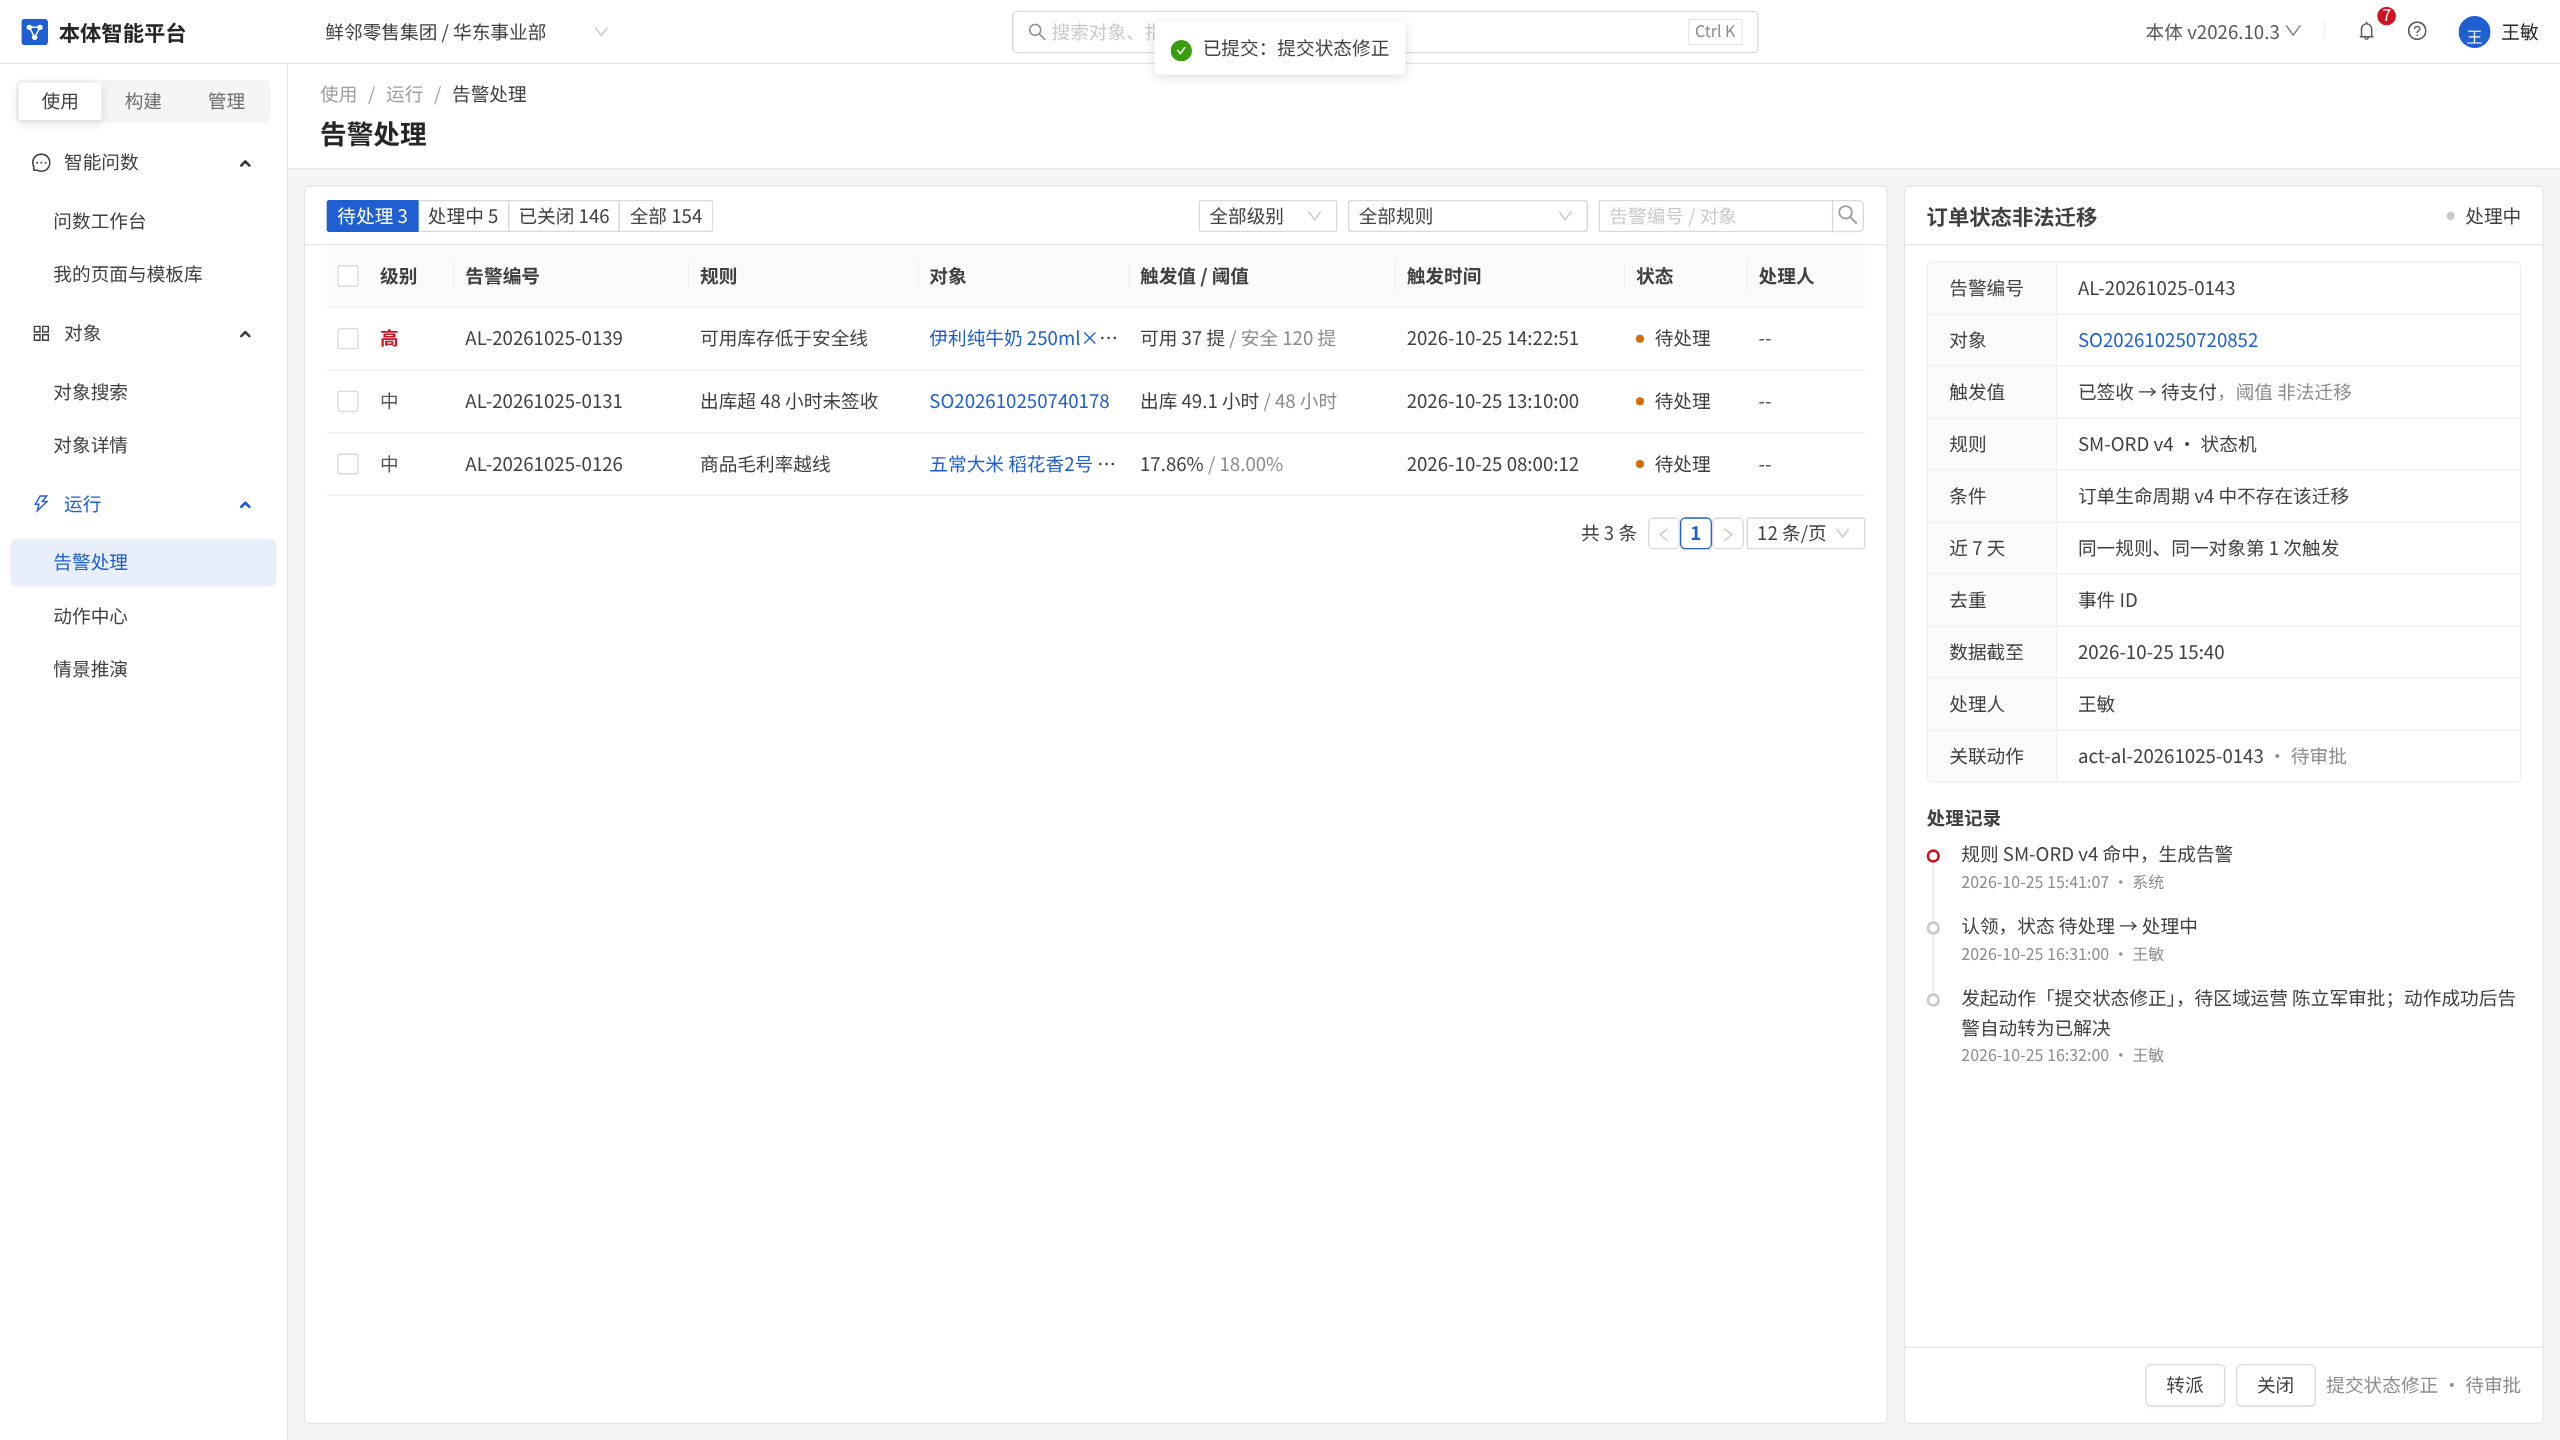
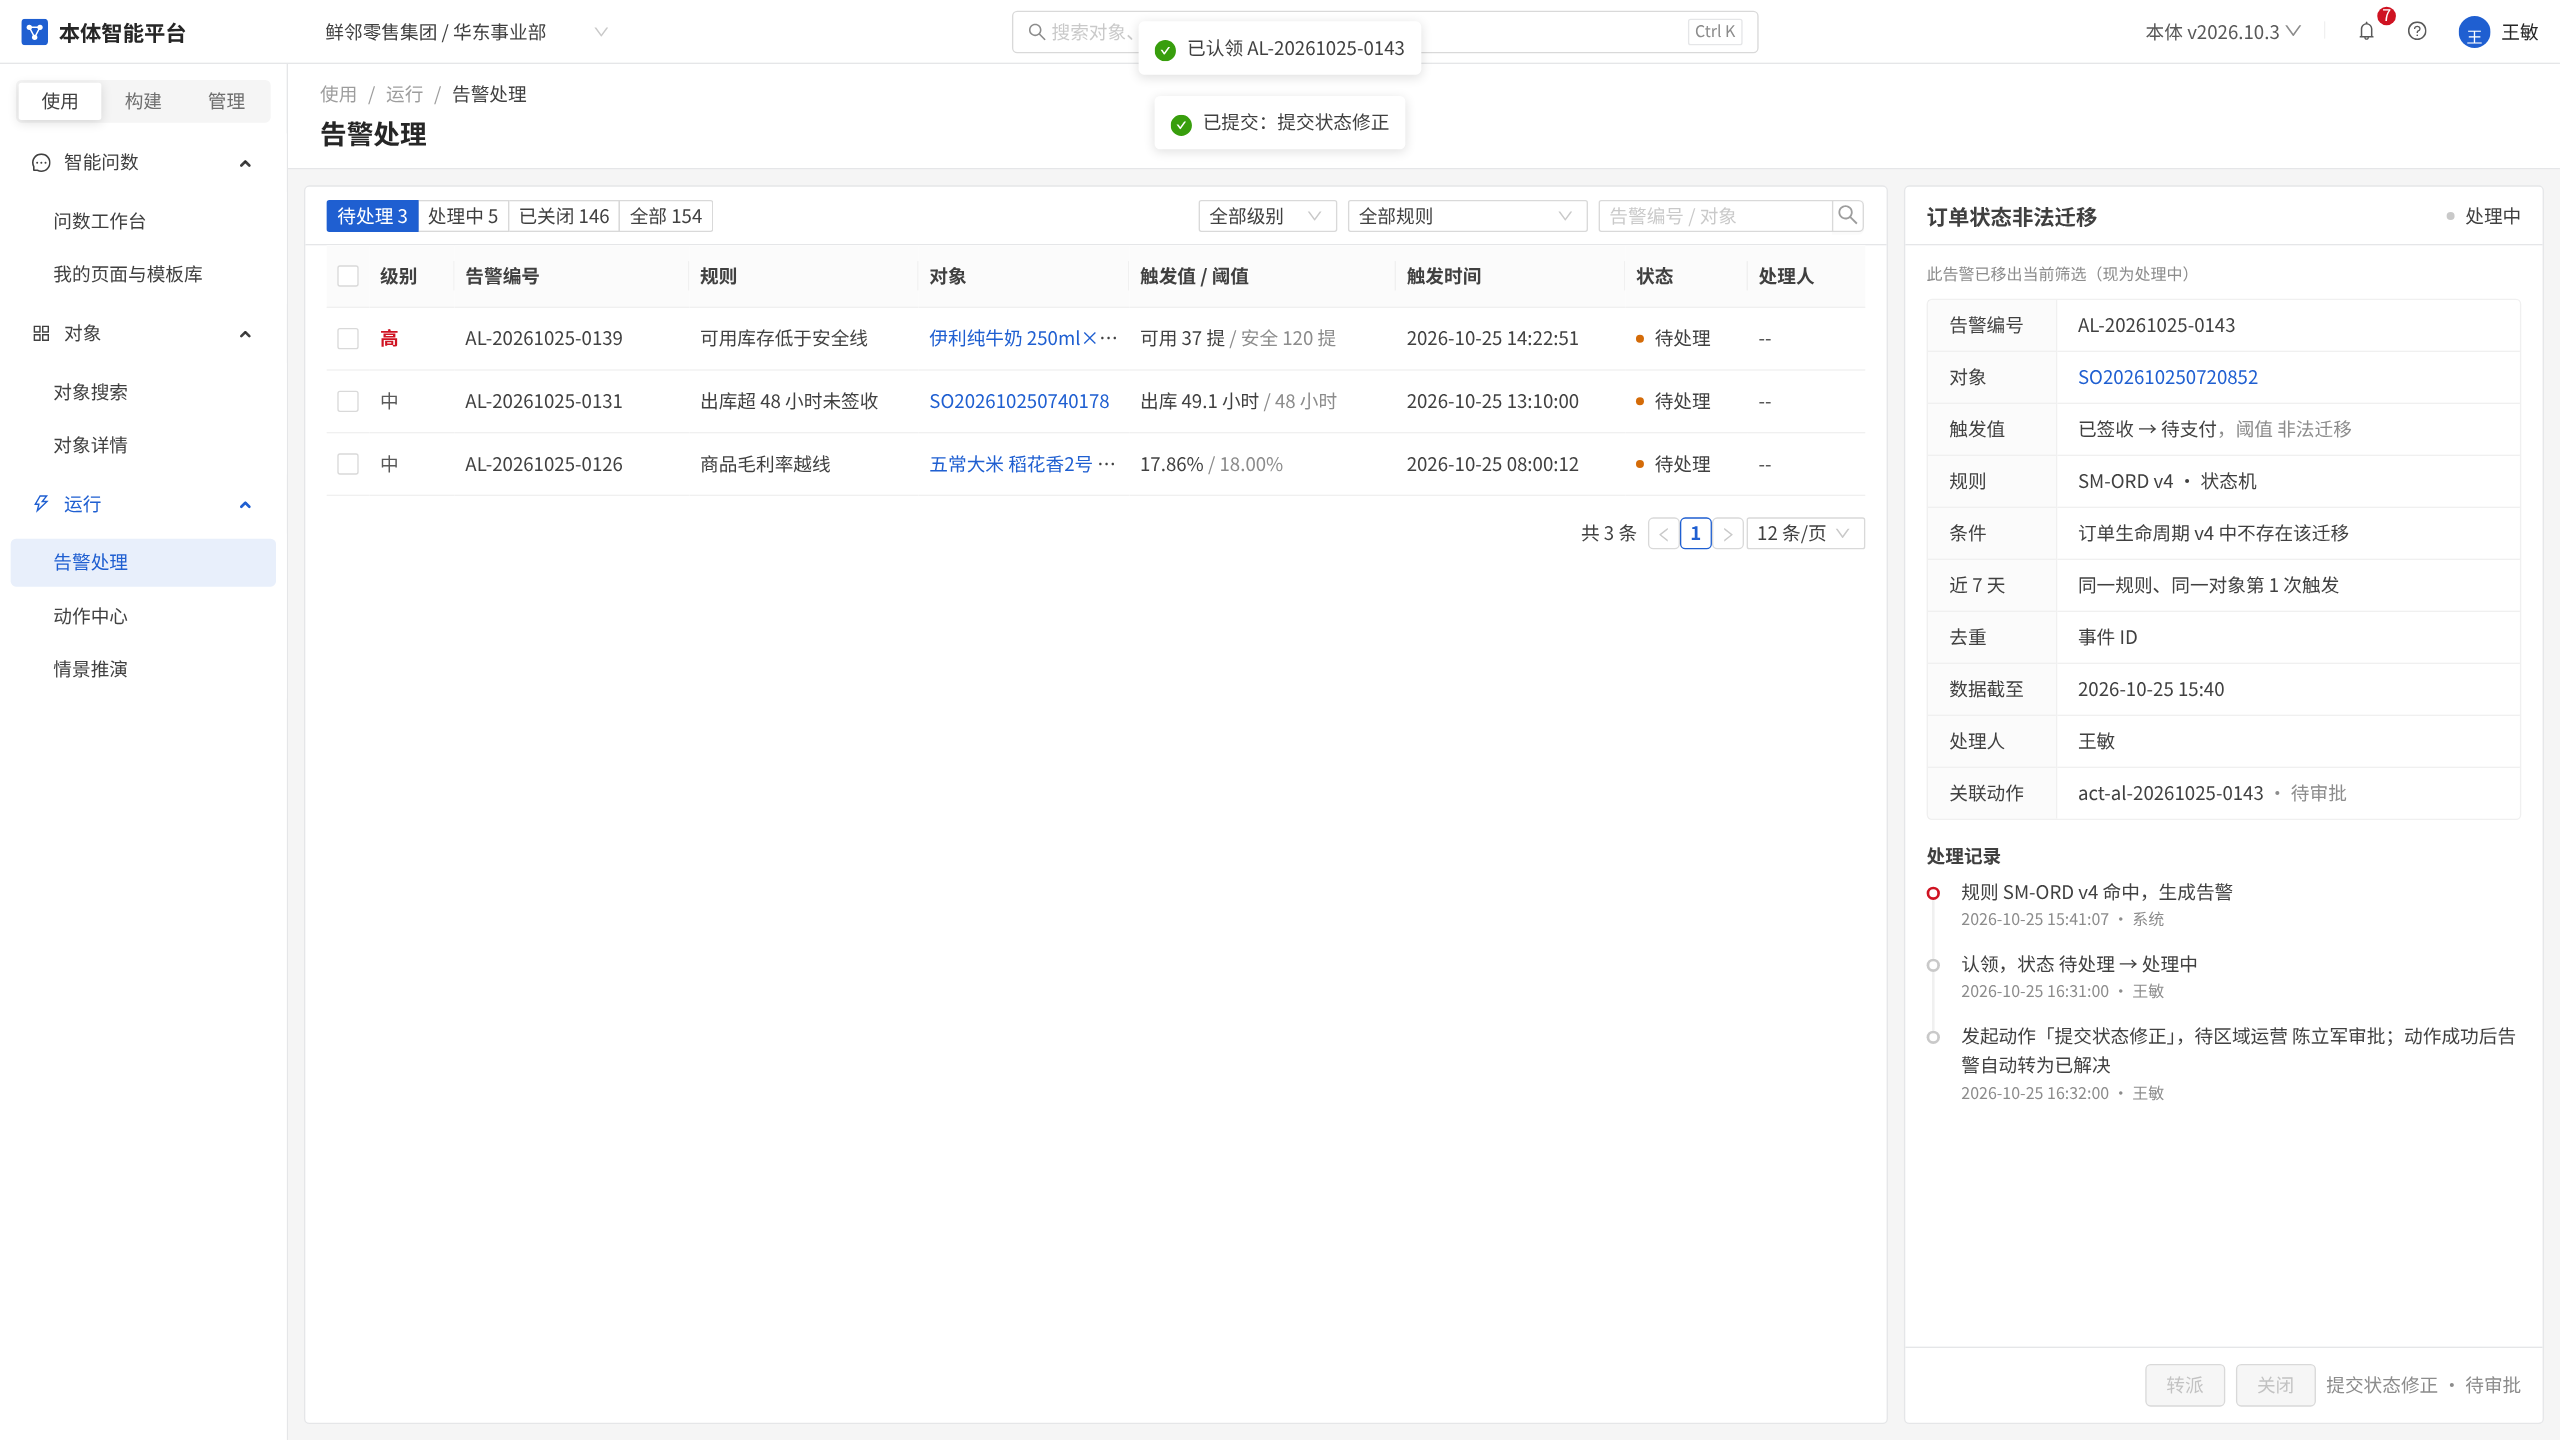
告警处理：接入历史版本只读（useReadonly），补流程截图

Changed region(s): [[0.75, 0.1875, 1.0, 0.7812], [0.4375, 0.0312, 0.5312, 0.0938]]

diff --git a/frontend/src/pages/ops/Alerts.vue b/frontend/src/pages/ops/Alerts.vue
@@ -9,6 +9,7 @@ import { message } from 'ant-design-vue';
 import ObjRef from '@/components/ObjRef.vue';
 import HoverCard from '@/components/HoverCard.vue';
 import { useConfirmStore } from '@/stores/confirm';
+import { useReadonly } from '@/composables/useReadonly';
 import { ALERTS, RULES, METRICS, alertTimeline, type Alert, type AlertStatus } from '@/mock';
 
 type LogItem = { time: string; text: string; who: string; abnormal?: boolean };
@@ -24,6 +25,7 @@ const isClosed = (s: AlertStatus) => s === '已解决' || s === '已忽略';
 const route = useRoute();
 const router = useRouter();
 const confirm = useConfirmStore();
+const { readonly, reason: roReason } = useReadonly();
 
 const TABS: { key: string; title: string; match: (s: AlertStatus) => boolean }[] = [
   { key: 'open', title: '待处理', match: (s) => s === '待处理' },
@@ -203,7 +205,7 @@ async function runAction() {
       </div>
       <div class="al-table">
         <a-table :columns="columns" :data-source="rows" row-key="id" size="middle"
-          :row-selection="{ selectedRowKeys: selectedKeys, onChange: (k: (string | number)[]) => (selectedKeys = k as string[]), getCheckboxProps: (r: Row) => ({ disabled: isClosed(r.status) }) }" :scroll="pageSize > 12 ? { y: 572 } : undefined"
+          :row-selection="{ selectedRowKeys: selectedKeys, onChange: (k: (string | number)[]) => (selectedKeys = k as string[]), getCheckboxProps: (r: Row) => ({ disabled: readonly || isClosed(r.status) }) }" :scroll="pageSize > 12 ? { y: 572 } : undefined"
           :pagination="{ current: page, pageSize, total: rows.length, showSizeChanger: true, pageSizeOptions: ['12', '20', '50'], showQuickJumper: rows.length > pageSize * 10, showTotal: (t: number) => `共 ${t.toLocaleString('zh-CN')} 条`, onChange: (p: number, sz: number) => { if (sz !== pageSize) pageSize = sz; else page = p; } }"
           :row-class-name="(r: Row) => (r.id === selectedId ? 'al-row-active' : '')"
           :custom-row="(r: Row) => ({ onClick: () => pick(r) })">
@@ -257,7 +259,8 @@ async function runAction() {
         </a-timeline>
       </div>
       <div class="al-foot">
-        <template v-if="!isClosed(current.status)">
+        <span v-if="readonly" class="t-14 c-3">{{ roReason }}，不能处理告警</span>
+        <template v-else-if="!isClosed(current.status)">
           <span v-if="current.status === '处理中' && current.assignee !== ME" class="t-14 c-3">{{ current.assignee }} 处理中</span>
           <a-popover v-model:open="transferOpen" trigger="click" placement="topRight">
             <template #content>
